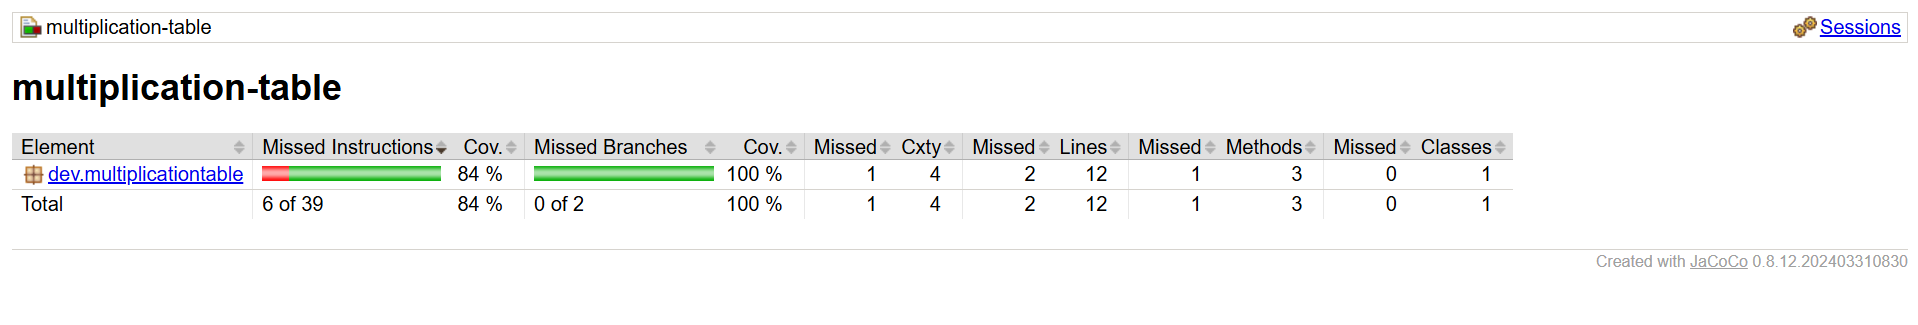
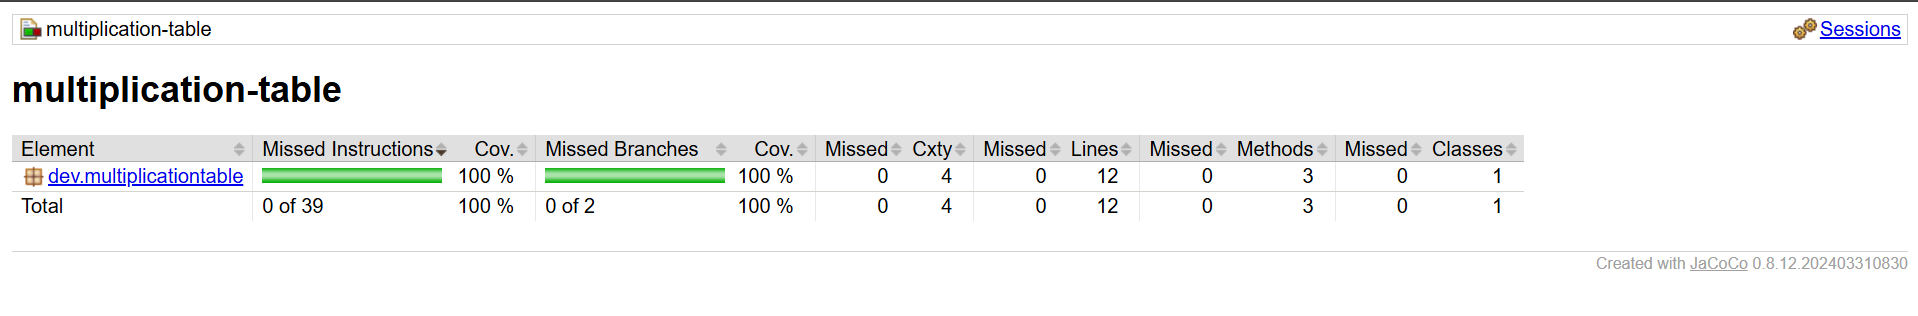
test: add print() test and exclude App from coverage to reach 100%

diff --git a/src/test/java/dev/multiplicationtable/MultiplicationTableTest.java b/src/test/java/dev/multiplicationtable/MultiplicationTableTest.java
@@ -3,6 +3,9 @@ package dev.multiplicationtable;
 import org.junit.jupiter.api.Test;
 import static org.junit.jupiter.api.Assertions.assertEquals;
 
+import java.io.ByteArrayOutputStream;
+import java.io.PrintStream;
+
 class MultiplicationTableTest {
 
     private final MultiplicationTable table = new MultiplicationTable();
@@ -40,5 +43,17 @@ void shouldGenerateTableForSeven() {
     void shouldHandleNegativeNumber() {
         assertEquals("-3 x 1 = -3" + System.lineSeparator(),
             table.generate(-3).lines().findFirst().get() + System.lineSeparator());
+    }
+
+     @Test
+    void shouldPrintTableForSeven() {
+        ByteArrayOutputStream outputStream = new ByteArrayOutputStream();
+        PrintStream originalOut = System.out;
+        System.setOut(new PrintStream(outputStream));
+
+        table.print(7);
+
+        System.setOut(originalOut);
+        assertEquals(table.generate(7), outputStream.toString());
     }
 }
